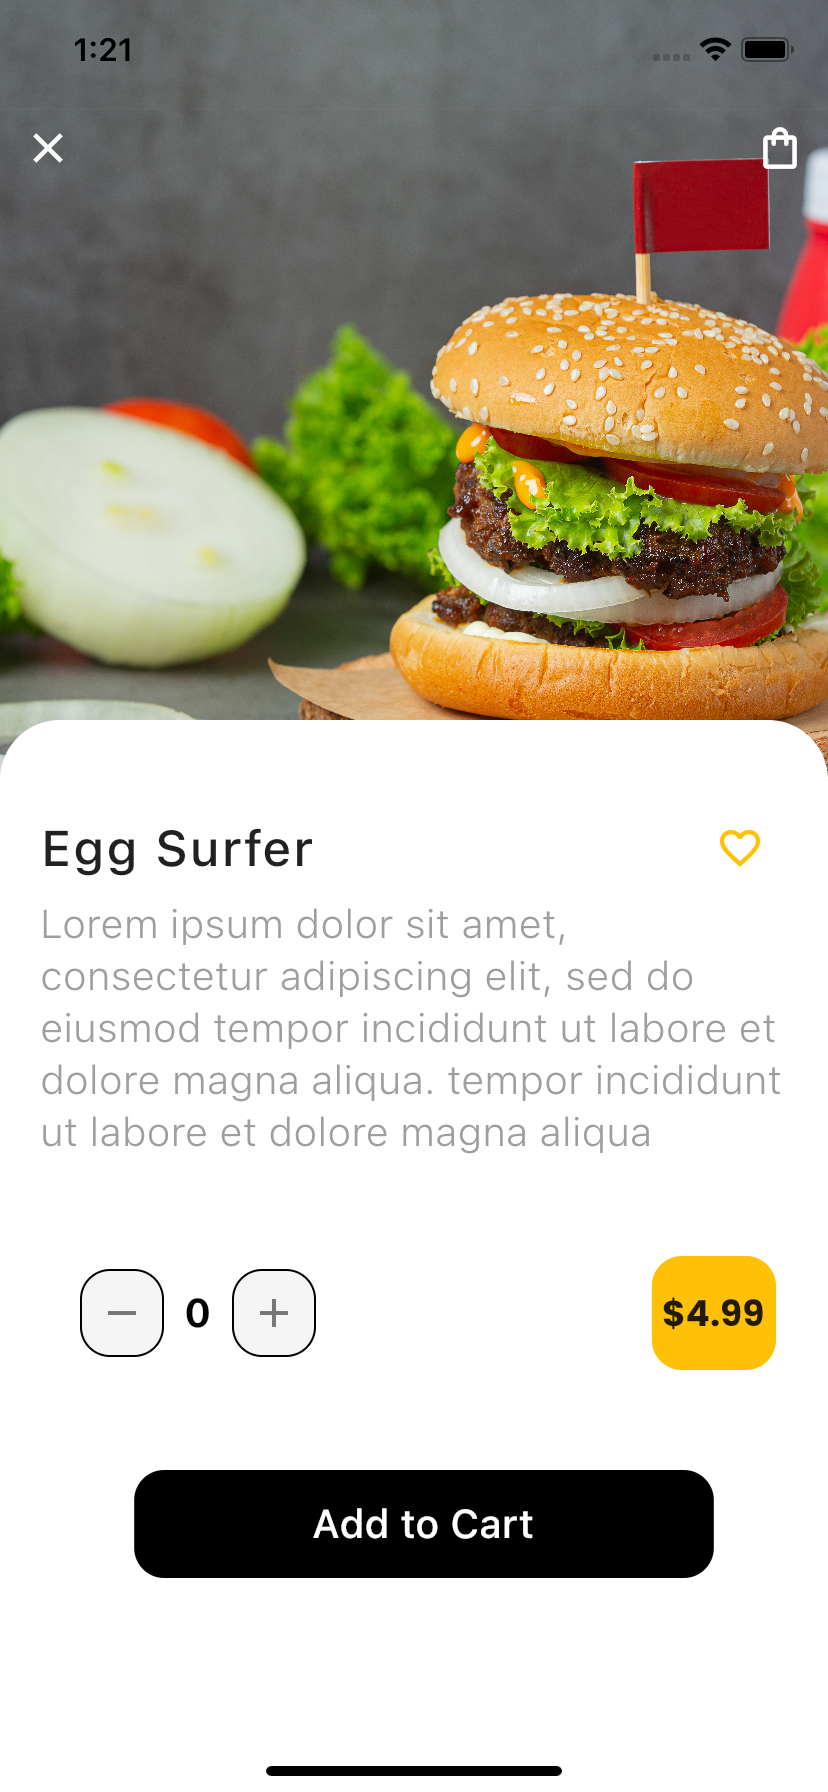
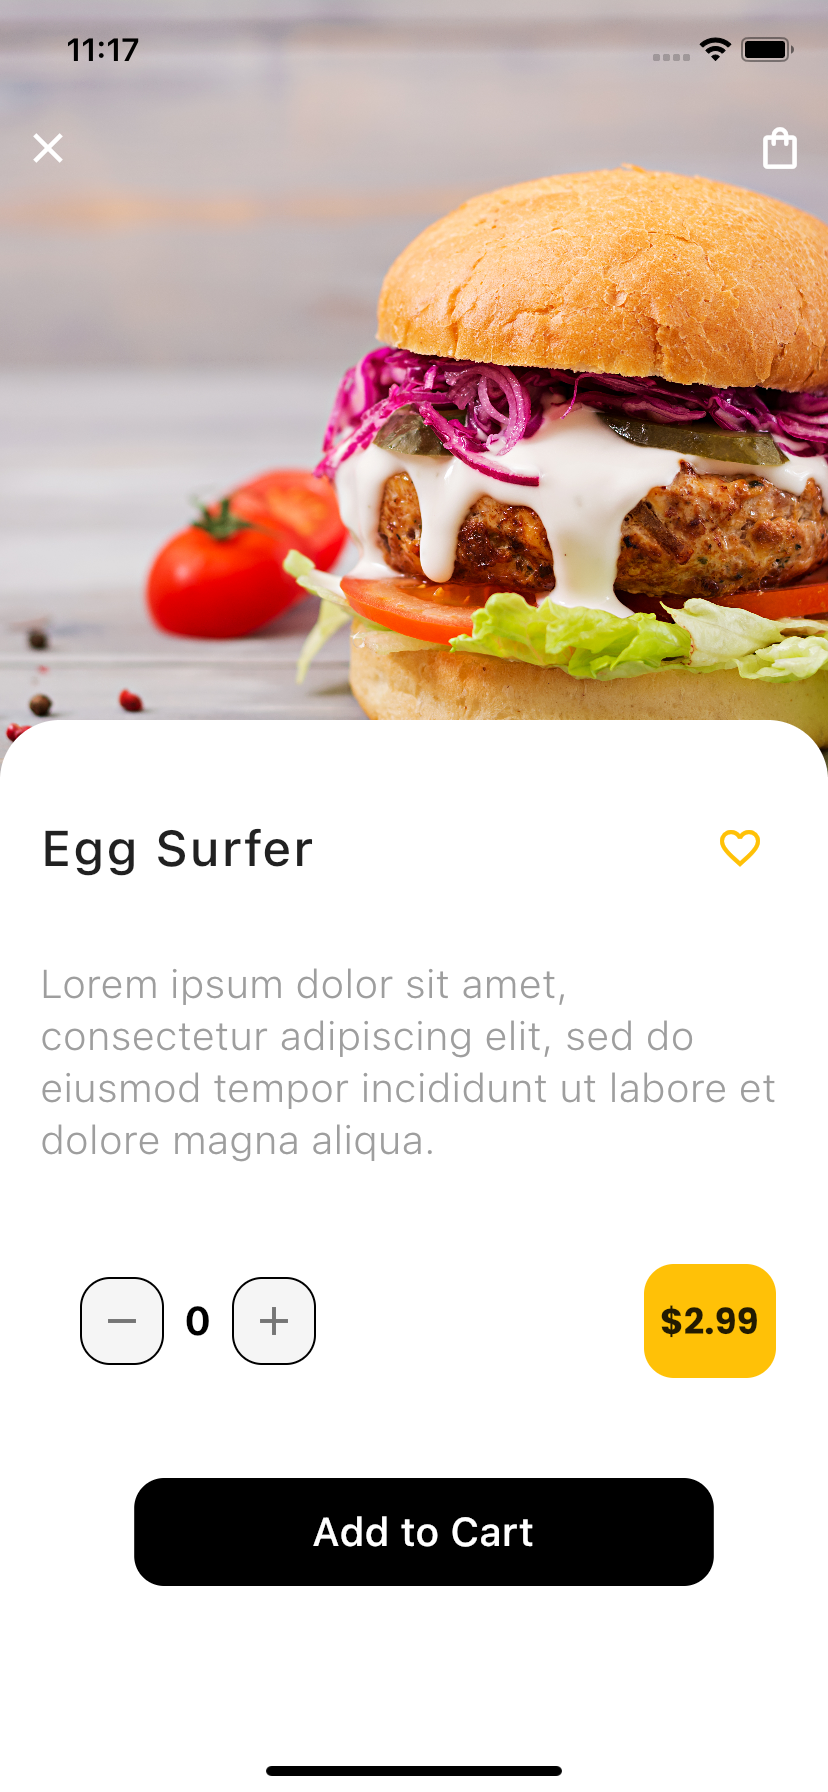
cart provider

diff --git a/lib/screens/food_details.dart b/lib/screens/food_details.dart
@@ -1,18 +1,19 @@
 import 'package:flutter/material.dart';
 import 'package:restaurant_ui/constants.dart';
-import 'package:restaurant_ui/modules/food_bank.dart';
+import 'package:restaurant_ui/model/food_bank.dart';
 import 'package:restaurant_ui/screens/cart.dart';
-import 'package:restaurant_ui/screens/home.dart';
 import 'package:restaurant_ui/widgets/counter.dart';
 
 class FoodDetails extends StatefulWidget {
-  // final Food food;
-  // const FoodDetails({required this.food});
+  const FoodDetails({Key key, this.food}) : super(key: key);
+  final Food food;
   @override
   State<FoodDetails> createState() => _FoodDetailsState();
 }
 
 class _FoodDetailsState extends State<FoodDetails> {
+  List<Food> allFoods = getAllFoods();
+
   @override
   Widget build(BuildContext context) {
     return MaterialApp(
@@ -22,7 +23,7 @@ class _FoodDetailsState extends State<FoodDetails> {
             Container(
               height: MediaQuery.of(context).size.height * 1 / 2,
               child: Image.asset(
-                'assets/images/sandwich2.jpg',
+                widget.food.image,
                 fit: BoxFit.cover,
               ),
             ),
@@ -68,7 +69,7 @@ class _FoodDetailsState extends State<FoodDetails> {
                       mainAxisAlignment: MainAxisAlignment.spaceBetween,
                       children: [
                         Text(
-                          'Egg Surfer',
+                          widget.food.name,
                           style: TextStyle(
                             color: Colors.grey[900],
                             fontSize: 25.0,
@@ -86,8 +87,9 @@ class _FoodDetailsState extends State<FoodDetails> {
                         ),
                       ],
                     ),
+                    sizedBox_30,
                     Text(
-                      'Lorem ipsum dolor sit amet, consectetur adipiscing elit, sed do eiusmod tempor incididunt ut labore et dolore magna aliqua. tempor incididunt ut labore et dolore magna aliqua',
+                      widget.food.description,
                       style: descriptionTextStyle,
                     ),
                     sizedBox_50,
@@ -97,15 +99,16 @@ class _FoodDetailsState extends State<FoodDetails> {
                         CountButtonView(),
                         // SizedBox(width: 60.0),
                         Container(
-                          padding: EdgeInsets.only(top: 15.0, bottom: 15.0),
+                          padding: EdgeInsets.symmetric(
+                              horizontal: 8.0, vertical: 15.0),
                           margin: EdgeInsets.only(right: 6.0),
-                          width: MediaQuery.of(context).size.width * 0.15,
+                          //width: MediaQuery.of(context).size.width * 0.1,
                           decoration: BoxDecoration(
                               color: Colors.amber,
                               borderRadius: BorderRadius.circular(15)),
                           child: Center(
                               child: Text(
-                            '\$4.99',
+                            widget.food.price,
                             style: priceTextStyle,
                           )),
                         )
@@ -120,7 +123,7 @@ class _FoodDetailsState extends State<FoodDetails> {
                             Navigator.push(
                                 context,
                                 MaterialPageRoute(
-                                    builder: (Context) => Cart()));
+                                    builder: (context) => Cart()));
                           },
                           child: Container(
                             padding: EdgeInsets.all(15.0),

diff --git a/lib/widgets/food_card.dart b/lib/widgets/food_card.dart
@@ -1,17 +1,17 @@
 import 'package:flutter/material.dart';
-import 'package:restaurant_ui/modules/food_bank.dart';
+import 'package:provider/provider.dart';
+import 'package:restaurant_ui/model/food_bank.dart';
+import 'package:restaurant_ui/providers/cart_provider.dart';
 import 'package:restaurant_ui/screens/food_details.dart';
 
 class Meal extends StatefulWidget {
-  // const Meal({this.food});
-  // final Food food;
+  
   @override
   State<Meal> createState() => _MealState();
 }
 
 class _MealState extends State<Meal> {
   List<Food> allFoods = getAllFoods();
-
   @override
   Widget build(BuildContext context) {
     return ListView.builder(
@@ -19,10 +19,12 @@ class _MealState extends State<Meal> {
         shrinkWrap: true,
         itemCount: allFoods.length,
         itemBuilder: (context, index) {
+          final foodItem = allFoods[index];
           return GestureDetector(
               onTap: () {
+                //cartProvider.addToCart(foodItem);
                 Navigator.push(context,
-                    MaterialPageRoute(builder: (Context) => FoodDetails()));
+                    MaterialPageRoute(builder: (context) => FoodDetails(food: foodItem,)));
               },
               child: Padding(
                   padding: const EdgeInsets.all(10.0),

diff --git a/lib/main.dart b/lib/main.dart
@@ -1,4 +1,6 @@
 import 'package:flutter/material.dart';
+import 'package:provider/provider.dart';
+import 'package:restaurant_ui/providers/cart_provider.dart';
 import 'package:restaurant_ui/screens/home.dart';
 
 void main() {
@@ -9,10 +11,15 @@ class Home extends StatelessWidget {
   // This widget is the root of your application.
   @override
   Widget build(BuildContext context) {
-    return MaterialApp(
-      debugShowCheckedModeBanner: false,
-      title: 'Restaurant',
-      home: MainHome(),
+    return MultiProvider(
+      providers: [
+        ChangeNotifierProvider<CartProvider>(create: (_) => CartProvider()),
+      ],
+      child: MaterialApp(
+        debugShowCheckedModeBanner: false,
+        title: 'Restaurant',
+        home: MainHome(),
+      ),
     );
   }
 }

diff --git a/lib/screens/home.dart b/lib/screens/home.dart
@@ -1,7 +1,6 @@
 import 'package:flutter/material.dart';
-import 'package:restaurant_ui/modules/food_bank.dart';
+import 'package:restaurant_ui/model/food_bank.dart';
 import 'package:restaurant_ui/widgets/food_card.dart';
-import 'package:restaurant_ui/widgets/food_menu.dart';
 
 class MainHome extends StatefulWidget {
   @override
@@ -9,7 +8,7 @@ class MainHome extends StatefulWidget {
 }
 
 class _MainHomeState extends State<MainHome> {
-  List<Food> allFoods = getAllFoods();
+  //List<Food> allFoods = getAllFoods();
   @override
   Widget build(BuildContext context) {
     return MaterialApp(

diff --git a/lib/screens/cart.dart b/lib/screens/cart.dart
@@ -1,5 +1,7 @@
 import 'package:flutter/material.dart';
+import 'package:provider/provider.dart';
 import 'package:restaurant_ui/constants.dart';
+import 'package:restaurant_ui/providers/cart_provider.dart';
 
 class Cart extends StatefulWidget {
   // const Cart({ Key? key }) : super(key: key);
@@ -11,6 +13,7 @@ class Cart extends StatefulWidget {
 class _CartState extends State<Cart> {
   @override
   Widget build(BuildContext context) {
+
     return Scaffold(
       backgroundColor: Colors.grey[100],
       appBar: AppBar(

diff --git a/lib/model/food_bank.dart b/lib/model/food_bank.dart
@@ -10,7 +10,7 @@ class Food {
 List<Food> getAllFoods() => [
       Food(
           name: 'Egg Surfer',
-          price: '\$4.99',
+          price: '\$2.99',
           description:
               'Lorem ipsum dolor sit amet, consectetur adipiscing elit, sed do eiusmod tempor incididunt ut labore et dolore magna aliqua. ',
           image: 'assets/images/sandwich1.jpg'),

diff --git a/lib/providers/cart_provider.dart b/lib/providers/cart_provider.dart
@@ -1,0 +1,11 @@
+import 'package:flutter/widgets.dart';
+import 'package:restaurant_ui/model/food_bank.dart';
+
+class CartProvider extends ChangeNotifier {
+  List<Food> cartItems = [];
+  addToCart(Food food) {
+    cartItems.add(food);
+    notifyListeners();
+    print(cartItems.length);
+  }
+}
